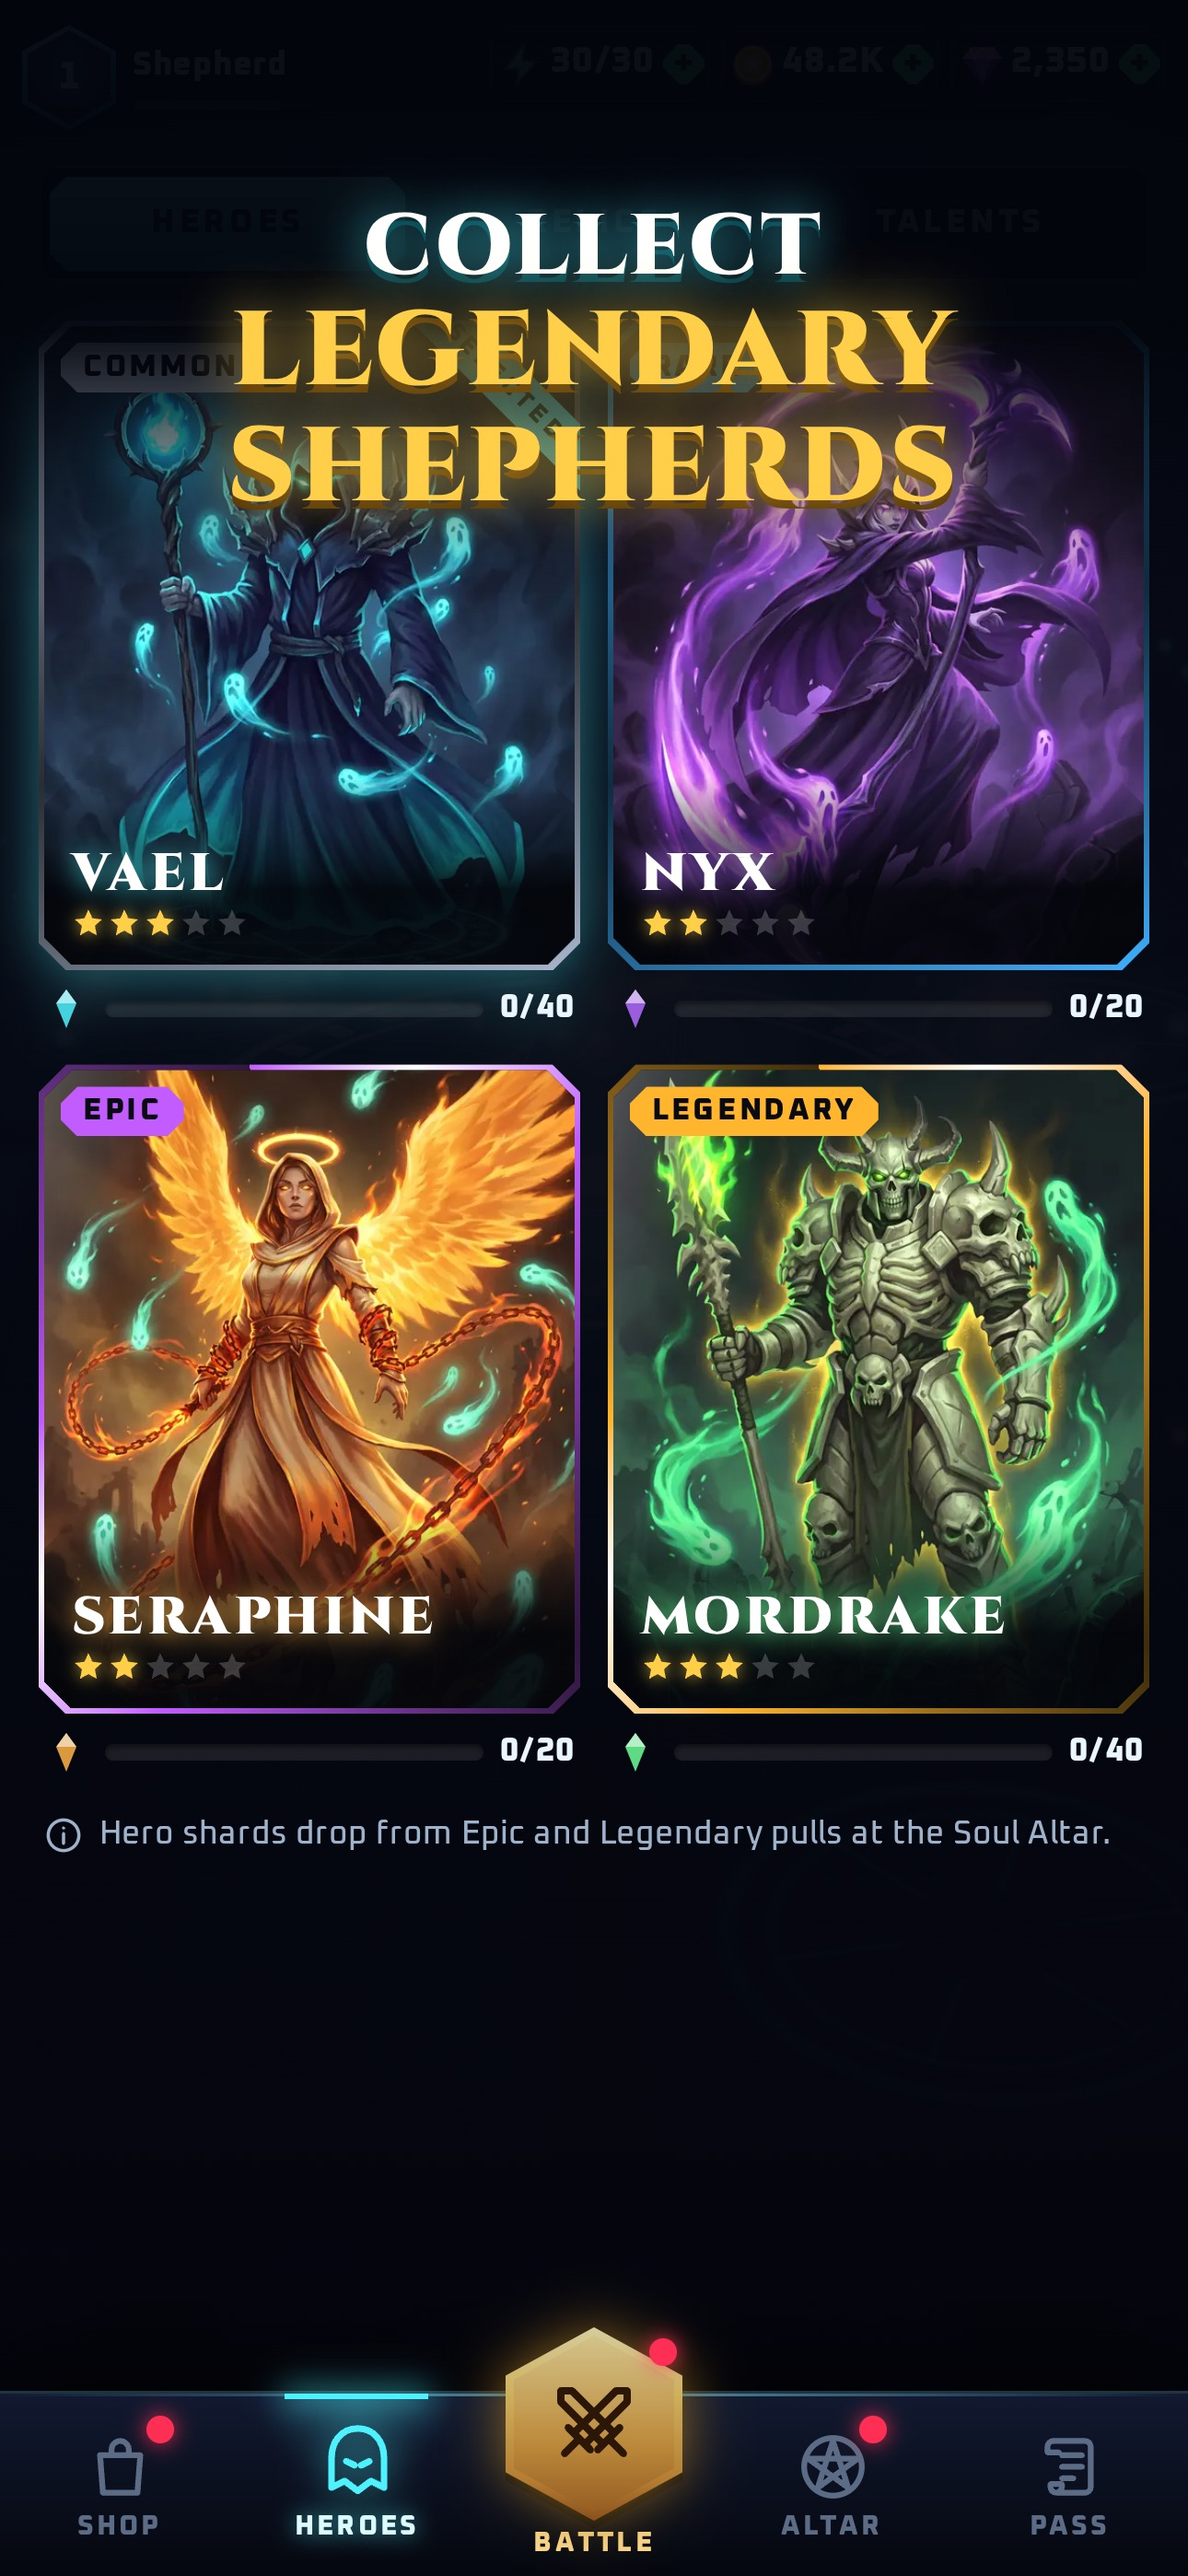
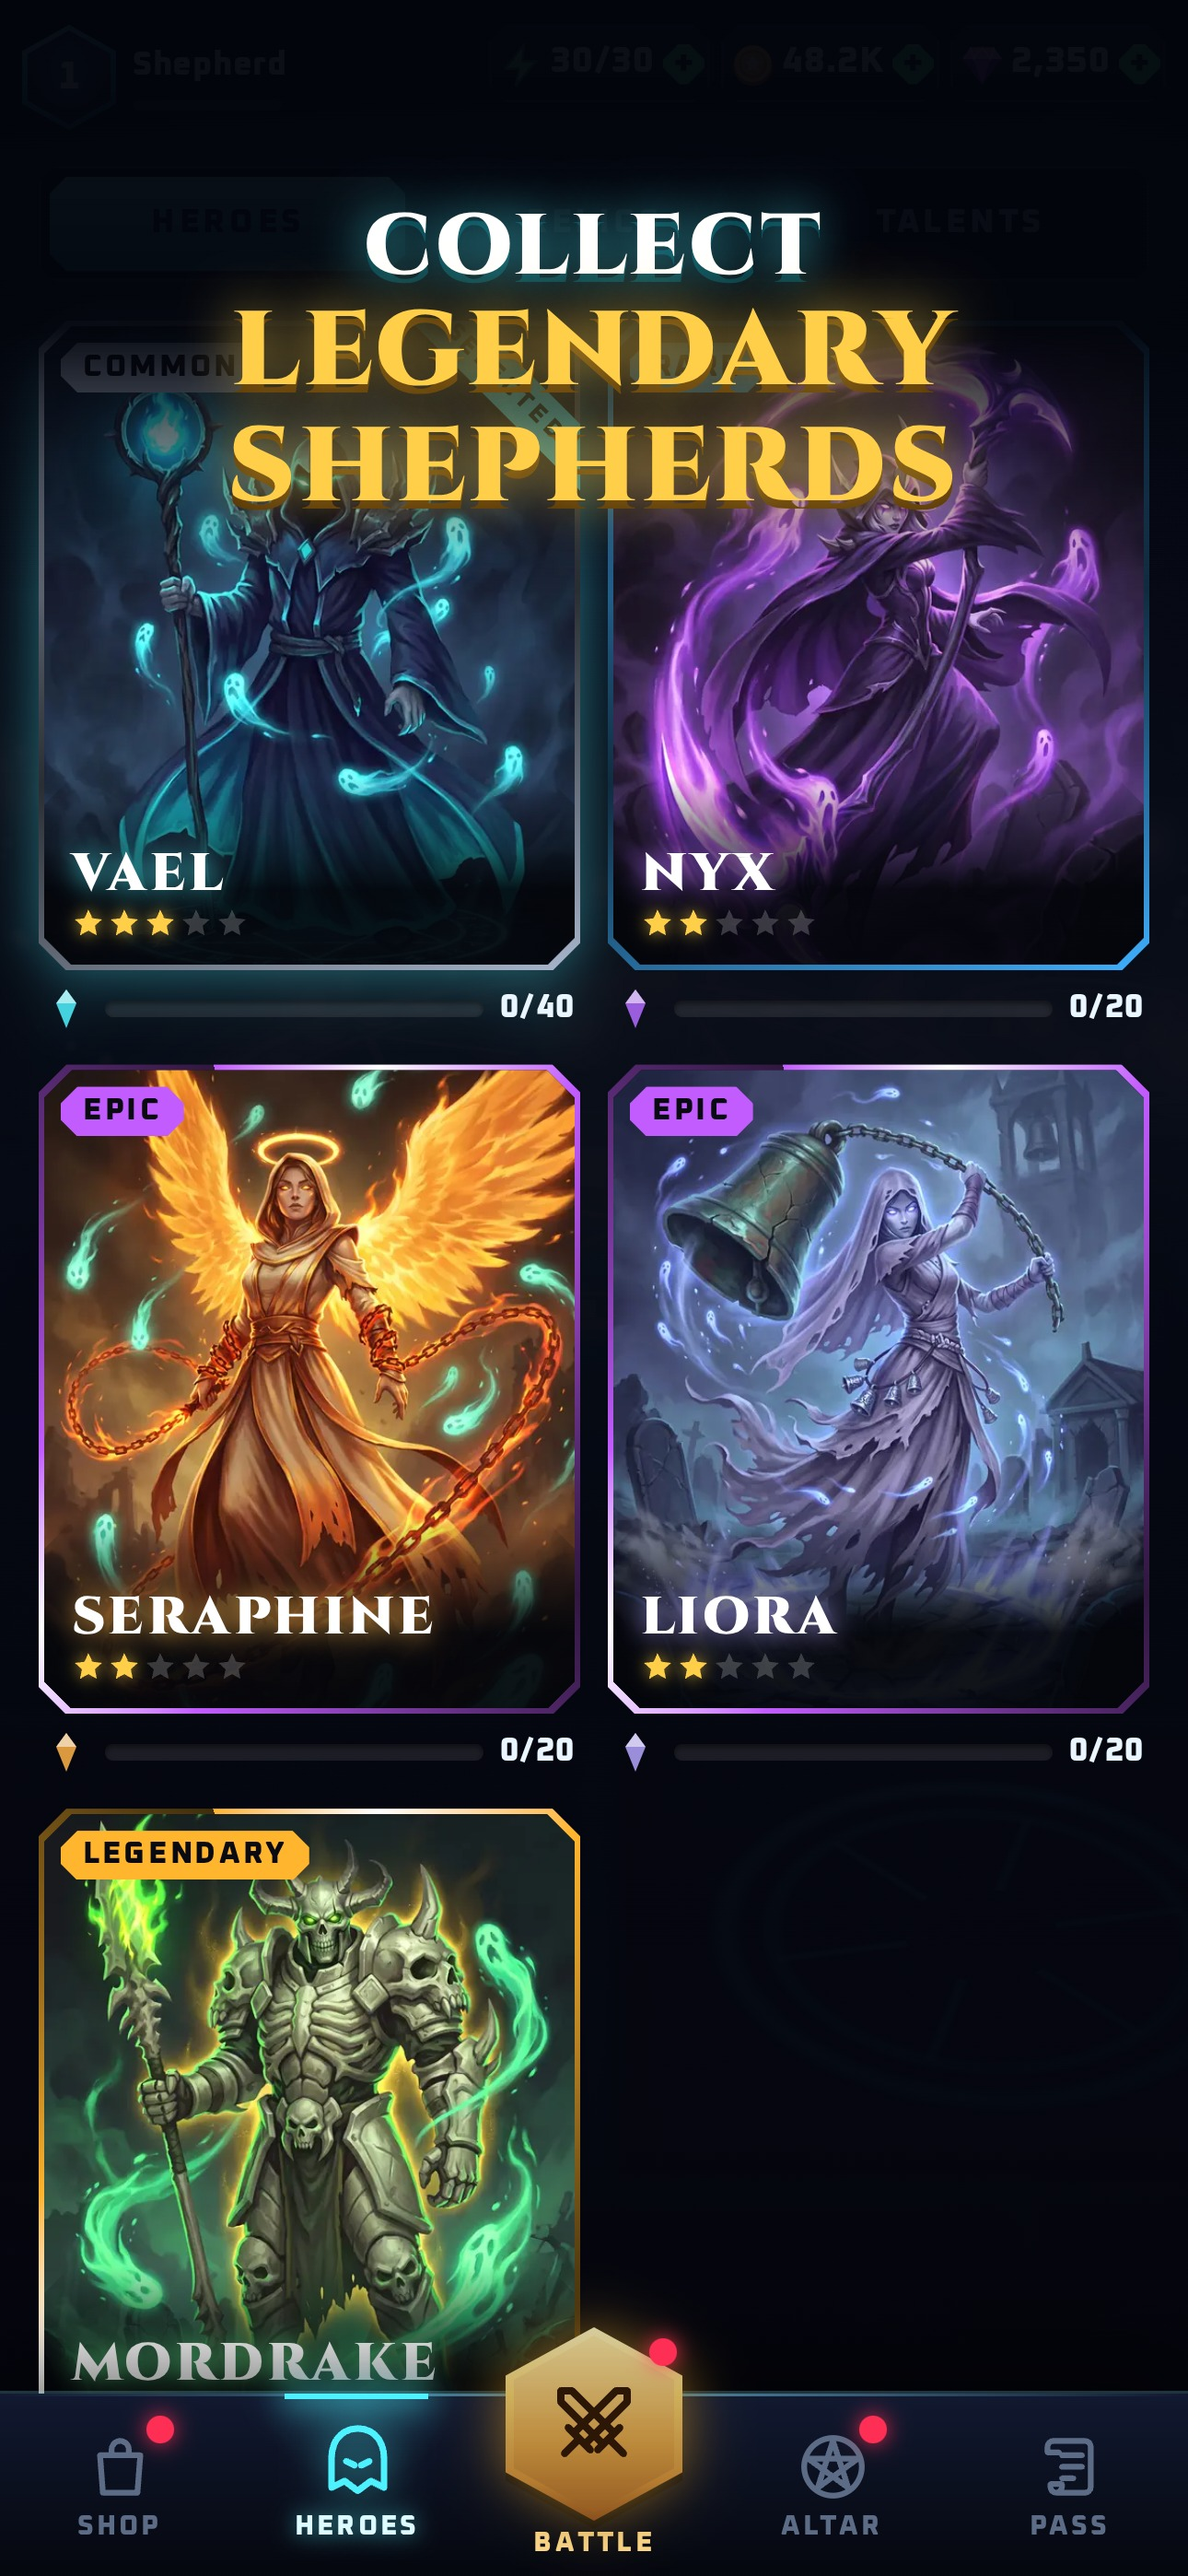
Fix the Epic heroes' passives so they pull their weight
Balance sims at equal progression had both Epics well below the free
starter. Seraphine's faster Nova emptied her legion more often; now foes
her Nova kills rise at x2 (not halved) and her HP is 105. Liora's x2
raise needed the pulse to land the killing blow, which it rarely does,
and her pulses flung the horde out of her legion's reach; now pulses mark
foes for 3 s (any kill rises at x2) and push 75% less. Survival: Seraphine
216 -> 268 s, Liora 230 -> 251-267 s (Vael 291, Mordrake 299).

Tools: HERO= and TUNE= for the balance bot, LV= for the weapon bench.
Playtest: 4 checks for the new passives (104 total). Heroes screenshot
now shows Liora; docs updated.

Claude-Session: https://claude.ai/code/session_01DX1po8f5ZYrvYHyaVKA9nN

diff --git a/soulswarm/src/game/weapons.js b/soulswarm/src/game/weapons.js
@@ -256,7 +256,8 @@ export class Weapons {
       run.fx.shockwave(P.x, P.z, R, run.heroColor, 0.4, 0.1);
       run.particles.ring(P.x, P.z, R, 48, this.cols.pulse, { life: 0.4, size: 0.5 });
       run.fx.light(P.x, P.z, R + 2, 1.4, run.heroColorObj, 0.35);
-      E.query(P.x, P.z, R, (e) => { E.damage(e, dmg, { kx: e.x - P.x, kz: e.z - P.z, knock: 10, crit, source: 'pulse' }); });
+      const knock = 10 * (run.loadout.hero.passive.pulseKnock ?? 1); // Liora's toll staggers foes instead of flinging them out of her legion's reach
+      E.query(P.x, P.z, R, (e) => { E.damage(e, dmg, { kx: e.x - P.x, kz: e.z - P.z, knock, crit, source: 'pulse' }); });
       run.audio.sfx('explosion', { volume: 0.4, pitch: 1.4 });
       run.fx.shake(0.08);
       return true;
@@ -583,7 +584,7 @@ export class Weapons {
 
   blastHit(e) {
     const P = this.run.player;
-    this.run.enemies.damage(e, this._bd, this.opts(e.x - P.x, e.z - P.z, 8, this._bc, 'pulse', this._shown++ >= 6)); // 6 numbers per blast
+    this.run.enemies.damage(e, this._bd, this.opts(e.x - P.x, e.z - P.z, 8 * (this.run.loadout.hero.passive.pulseKnock ?? 1), this._bc, 'pulse', this._shown++ >= 6)); // 6 numbers per blast
   }
 
   // ---------------------------------------------------------------- skull halo

diff --git a/soulswarm/src/game/data.js b/soulswarm/src/game/data.js
@@ -24,8 +24,8 @@ export const HEROES = {
   seraphine: {
     id: 'seraphine', name: 'Seraphine', title: 'Ashveil', rarity: 'epic', weapon: 'chains',
     color: 0xffb347, css: '#ffb347', body: 0x3a2414, legion: 0x7cffd4,
-    passive: { nova: 0.30 }, passiveText: 'Soul Nova charges 30% faster',
-    hp: 95, speed: 6.4,
+    passive: { nova: 0.30, novaRaise: 2 }, passiveText: 'Nova charges 30% faster, its kills rise ×2',
+    hp: 105, speed: 6.4,
     lore: 'A fallen choir-saint whose chains still burn with the last hymn of a dead cathedral.',
   },
   mordrake: {
@@ -38,7 +38,7 @@ export const HEROES = {
   liora: {
     id: 'liora', name: 'Liora', title: 'Bellwraith', rarity: 'epic', weapon: 'gravePulse',
     color: 0xc9bcff, css: '#b4a6ff', body: 0x2a2442, legion: 0x9fb4ff,
-    passive: { pulseRaise: 2 }, passiveText: 'Grave Pulse kills have ×2 Raise Chance',
+    passive: { pulseRaise: 2, pulseMark: 3, pulseKnock: 0.25 }, passiveText: 'Pulse-struck foes stay close and rise ×2',
     hp: 105, speed: 6.3,
     lore: 'She tolled the funeral bell for forty years. Then, one night, the dead began to answer.',
   },

diff --git a/soulswarm/src/game/run.js b/soulswarm/src/game/run.js
@@ -291,7 +291,9 @@ export class Run {
       let chance = this.stats.raise * (this.novaQueue.length ? 0.5 : 1);
       if (e.burnUid === e.uid) chance = Math.min(0.85, chance + e.burnRaise); // Chains of Perdition: the burning rise more often
       if (source === 'skull' && this.evolved.boneCrown) chance = 1;
-      if (source === 'pulse' && this.loadout.hero.passive.pulseRaise) chance = Math.min(0.85, chance * this.loadout.hero.passive.pulseRaise); // Liora
+      const HP = this.loadout.hero.passive;
+      if (HP.pulseRaise && (source === 'pulse' || (e.tollUid === e.uid && e.tollT > this.time))) chance = Math.min(0.85, chance * HP.pulseRaise); // Liora: the bell marks the dead
+      if (HP.novaRaise && source === 'nova') chance = Math.min(0.85, Math.max(chance, this.stats.raise * HP.novaRaise)); // Seraphine: what her Nova burns rises (never halved)
       if (this.tutorial && this.counters.raised < 5) chance = 1; // first run: the first five kills always rise
       if (Math.random() < chance) {
         if (this.legion.count < this.stats.cap) {

diff --git a/soulswarm/src/game/enemies.js b/soulswarm/src/game/enemies.js
@@ -361,6 +361,7 @@ export class Enemies {
     e.hp -= amount;
     e.flash = 1;
     e.lastHitBy = o.source || null;
+    if (o.source === 'pulse') { const m = this.run.loadout.hero.passive.pulseMark; if (m) { e.tollUid = e.uid; e.tollT = this.run.time + m; } } // Liora's toll (uid-keyed: pooled enemies never inherit it)
     if (o.knock && e.mass < 50) {
       const l = Math.hypot(o.kx || 0, o.kz || 0) || 1;
       const k = o.knock / Math.max(1, e.mass * 0.6);

diff --git a/soulswarm/docs/GDD.md b/soulswarm/docs/GDD.md
@@ -108,7 +108,7 @@ Normal spawns appear just off-screen; 45% of them are biased toward the player's
 
 ### 4.2 The Legion (Raise Chance and minions)
 
-- **Raise Chance** is in percentage points (pp). Base 25%. Sources: Vael +10 pp, the Raise Dead skill (+6 pp per level), the Necromancy talent (+1 pp per level), the Lantern of the Lost relic (+3 to +18 pp, more with relic levels). **Hard cap 85%.** Raise Chance is halved while a Soul Nova is detonating.
+- **Raise Chance** is in percentage points (pp). Base 25%. Sources: Vael +10 pp, the Raise Dead skill (+6 pp per level), the Necromancy talent (+1 pp per level), the Lantern of the Lost relic (+3 to +18 pp, more with relic levels). **Hard cap 85%.** Raise Chance is halved while a Soul Nova is detonating, except for kills by Seraphine's own Nova (×2 instead).
 - Every kill rolls Raise Chance, whether the Shepherd, a minion, the Nova or a Bloater blast made the kill. Elites can be raised. The Bloater that explodes does not rise, and Gravemaw cannot be raised (killing him adds 30 minions instead).
 - **Legion cap:** base 30. Flat bonuses: the Legion Cap skill (+10 per level, +50 at Lv5), the Dominion talent (+2 per level, +40 at L20), the Bone Idol relic (+3 to +18, up to +42 at Legendary Lv10). Mordrake multiplies the total by 1.25, then it is rounded. **Technical hard ceiling: 400 minions** on every device, for performance and leaderboard fairness.
 - Kills only roll while the legion is below the cap. A successful roll **at** the cap heals the weakest minion by 50% of its max HP instead.
@@ -158,7 +158,7 @@ Normal spawns appear just off-screen; 45% of them are biased toward the player's
 - **Charge meter:** each kill (any source) adds 1/300 of a full charge, times the Nova charge multiplier (Seraphine +30%, Abyss Eye relic +5% to +30%, more with relic levels). An elite kill counts as 6 kills and passing a Soul Gate (good or bad) as 3. Kills during a detonation add nothing. A full charge takes 300 kills (≈231 for Seraphine), so a Chapter 1 clear (~2,000–2,500 kills) gives roughly 6–7 Novas.
 - **Activation:** tap NOVA at 100%. It fires at once with 0.55 s of slow motion (30% speed), a flash, and all enemy projectiles cleared. Every minion detonates in a chain that ripples outward from the player over min(0.75, 0.15 + 0.003N) s. Firing grants the Shepherd 1.5 s of invulnerability. *(Planned: 0.4 s wind-up with hit-stop.)*
 - **Damage per detonation** = (35 + 0.5 × N) × Damage multiplier × (1 + 0.45(c − 1)), radius 2.6 m, where N = legion size when NOVA was pressed and the Damage multiplier includes stars, the Might talent and skill, and Crown of Thorns. The Shepherd's own blast deals 1.2× that damage in a 7 m radius, with knockback. At N = 300, each blast deals 185 base damage, 300 times, overlapping.
-- **Cost:** the legion drops to 0, and Raise Chance is halved until the chain finishes, so the rebuild starts a beat later.
+- **Cost:** the legion drops to 0, and Raise Chance is halved until the chain finishes, so the rebuild starts a beat later. Seraphine is the exception: foes her Nova kills rise at ×2, so her detonations restock the legion.
 - **Bosses** take 50% damage from Nova, capped at 25% of their max HP per Nova (§6).
 
 ### 4.5 Pickups
@@ -450,9 +450,25 @@ K = total kills (player and minions), T = seconds survived including the boss fi
 |---|---|---|---|---|---|---|
 | Vael, the Gravecaller | Common | 100 | 6.2 | Soul Bolt | +10% Raise Chance (pp) | Free (starter) |
 | Nyx Hollowborn | Rare | 110 | 6.5 | Spectral Scythe | Minions +20% speed and damage | Starter Pack / Epic summon shards |
-| Seraphine Ashveil | Epic | 95 | 6.4 | Ashen Chains | Soul Nova charges 30% faster | Epic and Legendary summon shards, Soul Pass S1 premium |
-| Liora Bellwraith | Epic | 105 | 6.3 | Grave Pulse | Grave Pulse kills have ×2 Raise Chance (85% cap) | Epic summon shards |
+| Seraphine Ashveil | Epic | 105 | 6.4 | Ashen Chains | Soul Nova charges 30% faster, and foes her Nova kills rise at ×2 Raise Chance (not halved) | Epic and Legendary summon shards, Soul Pass S1 premium |
+| Liora Bellwraith | Epic | 105 | 6.3 | Grave Pulse | Her pulses mark foes for 3 s; marked foes rise at ×2 Raise Chance whoever kills them (85% cap). Her pulses push foes 75% less, so they stay inside her legion's reach | Epic summon shards |
 | Mordrake the Undying | Legendary | 130 | 6.0 | Bone Spears | Legion cap +25%; revive once per run at full HP | Legendary summon shards |
+
+**Balance check (2026-10-06).** The balance bot (`HERO=<id> npm run balance`) played every hero at equal progression on Chapters 2 and 4, 6 to 10 runs each. Average survival:
+
+| Hero | Survival | Note |
+|---|---|---|
+| Vael | 291 s | |
+| Mordrake | 299 s | plus his revive |
+| Seraphine | 268 s | 216 s before her Nova fix |
+| Liora | 251 s | 230 s before the toll and knockback fix |
+| Nyx | 246 s | |
+
+- **Seraphine's fix:** her faster Nova used to empty the legion more often, so she had the smallest army.
+- **Liora's fix:** her ×2 rarely fired, because pulses seldom land the killing blow. Her pulses also flung the horde out of her legion's reach.
+- **Spread:** results vary by about ±35 s between runs. For Liora, +15% base damage or +6 pp Raise Chance did not move her result outside that spread.
+- **Vael's lead:** most likely a bot artifact. The bot only flees, which favours Vael's homing Soul Bolt; he takes the least damage of any hero.
+- **Before nerfing Vael:** confirm with human playtest data first, because the chapters are tuned around him.
 
 **Stars.** Unlocking takes 10 shards (1★). Star costs: 10 / 20 / 40 / 80 shards for 2★ / 3★ / 4★ / 5★ (160 shards from first shard to 5★). Each star above 1★ adds +12% damage and +8% HP, so 5★ = +48% damage, +32% HP.
 

diff --git a/soulswarm/docs/MARKETING.md b/soulswarm/docs/MARKETING.md
@@ -53,7 +53,7 @@ Keyword rules: no words already in the name or subtitle (Apple indexes those alr
 > Choose 1 of 3 skills each level: homing Soul Bolts, a Spectral Scythe, Ashen Chains, Bone Spears, Skull Halo, Grave Pulse and 8 passives. Max them out and discover evolutions like Soul Storm and Bone Crown.
 >
 > **FOUR SHEPHERDS OF THE DEAD**
-> Play as Vael the Gravecaller, Nyx Hollowborn, Seraphine Ashveil or the legendary Mordrake the Undying. Each has a signature weapon and a passive that changes how your legion fights.
+> Play as Vael the Gravecaller, Nyx Hollowborn, Seraphine Ashveil, Liora Bellwraith or the legendary Mordrake the Undying. Each has a signature weapon and a passive that changes how your legion fights.
 >
 > **CONQUER FIVE CURSED CHAPTERS**
 > From the Ashen Necropolis to the Crimson Throne, then climb the weekly Endless Abyss leaderboards. Blood Moon weekends double the elites AND the rewards.
@@ -97,7 +97,7 @@ Format: iOS 6.9" (1320 × 2868) is required, and the 6.5" set is derived from it
 | 2 | **PICK THE RIGHT GATE** | Two glowing gates, `+25` and `×2`, legion of 37 (a real 1:08 pair), a Brute lurking behind the ×2 gate | Large "?" between the gates. Thumb-shaped arrow toward ×2. |
 | 3 | **SACRIFICE THE SWARM. WIPE THE SCREEN.** | Mid-Nova: a chain of cyan explosions rippling out, enemies vaporising | Peak bloom frame. NOVA button visibly pressed. |
 | 4 | **TOPPLE THE HOLLOW KING** | Gravemaw, magenta, mid-slam with telegraph rings, legion charging him | Boss health bar visible. Strong diagonal composition. |
-| 5 | **4 SHEPHERDS. ENDLESS BUILDS.** | Hero line-up (Vael, Nyx, Seraphine, Mordrake) above a level-up screen showing 3 skill cards | Rarity frames (Common → Legendary) visible. |
+| 5 | **COLLECT LEGENDARY SHEPHERDS** | The heroes screen with all five painted hero cards (Vael, Nyx, Seraphine, Liora, Mordrake) | Rarity frames (Common → Legendary) and star rows visible. |
 | 6 | **CLIMB THE ENDLESS ABYSS** (Planned; needs Endless Abyss and Blood Moon to ship) | Endless Abyss run at 12:00 with the weekly leaderboard panel overlaid | "Blood Moon weekend: 2× rewards" banner along the bottom |
 
 **App preview video (iOS, 25 s):** 0–3 s legion growing (hook 1) → 3–9 s gate choice → 9–15 s Nova wipe → 15–21 s Gravemaw fight → 21–25 s logo + "Raise the Legion". In-game audio only. No device frames (per Apple's guidelines).

diff --git a/soulswarm/docs/LIVEOPS.md b/soulswarm/docs/LIVEOPS.md
@@ -53,7 +53,7 @@
 
 | Hero | Rarity | Signature weapon | Passive | How to get |
 |---|---|---|---|---|
-| Liora Bellwraith | Epic | Grave Pulse | Enemies killed by pulses get ×2 Raise Chance | **In the build** (pulled forward from S2): Epic Altar rolls. Planned for S2: featured banner + S2 premium pass (10 shards) |
+| Liora Bellwraith | Epic | Grave Pulse | Pulse-struck foes stay close and rise at ×2 Raise Chance for 3 s | **In the build** (pulled forward from S2): Epic Altar rolls. Planned for S2: featured banner + S2 premium pass (10 shards) |
 | Osric the Bone Abbot | Legendary | Skull Halo | Start each run with 20 minions | Featured banner shards (Legendary rolls) |
 | Grimsby Lanternjaw | Epic | **Witchfire Lantern** (new: a lantern that leaves burning trails) | Gate + values are 25% higher | Halloween event track (10 shards free) + banner |
 | Isolde Frostveil | Epic | **Rime Shards** (new: freezing shards that shatter) | Frozen enemies have +15 pp Raise Chance | S7 premium pass + banner |

diff --git a/soulswarm/docs/DESIGN_BRIEF.md b/soulswarm/docs/DESIGN_BRIEF.md
@@ -22,7 +22,8 @@
 |---|---|---|---|---|
 | Vael, the Gravecaller | Common | Soul Bolt (homing bolts) | +10% Raise Chance | Free (starter) |
 | Nyx Hollowborn | Rare | Spectral Scythe (sweeping arc) | Minions +20% speed & damage | Starter Pack / summon shards |
-| Seraphine Ashveil | Epic | Ashen Chains (chain lightning) | Soul Nova charges 30% faster | Summon shards (Epic+) |
+| Seraphine Ashveil | Epic | Ashen Chains (chain lightning) | Soul Nova charges 30% faster; her Nova's kills rise ×2 | Summon shards (Epic+) |
+| Liora Bellwraith | Epic | Grave Pulse (shockwave) | Pulse-struck foes stay close and rise ×2 for 3 s | Summon shards (Epic) |
 | Mordrake the Undying | Legendary | Bone Spears (piercing lances) | Legion cap +25%, revive once per run | Summon shards (Legendary) |
 
 Heroes rank up 1★ to 5★ using shards. Each star adds +12% damage and +8% HP. Unlocking takes 10 shards. Star costs: 10/20/40/80.

diff --git a/soulswarm/README.md b/soulswarm/README.md
@@ -28,7 +28,7 @@ Desktop controls are WASD/arrows to move and Space for Soul Nova. On touch, drag
 ## Test and marketing tools
 
 ```bash
-npm run playtest      # headless bot: every hero, a full Chapter 1 clear, boss phases, Endless, meta and economy (100 checks)
+npm run playtest      # headless bot: every hero, a full Chapter 1 clear, boss phases, Endless, hero passives, meta and economy (104 checks)
 npm run balance       # bot plays chapters 1–5 with typical progression; reports clears, deaths, boss time-to-kill (needs dev server)
 npm run trailer       # renders a 22 s 1080×1920 gameplay ad to store/trailer-9x16.mp4 (needs dev server + ffmpeg)
 npm run screenshots   # renders captioned 1290×2796 store screenshots to store/screenshots/ (needs dev server)
